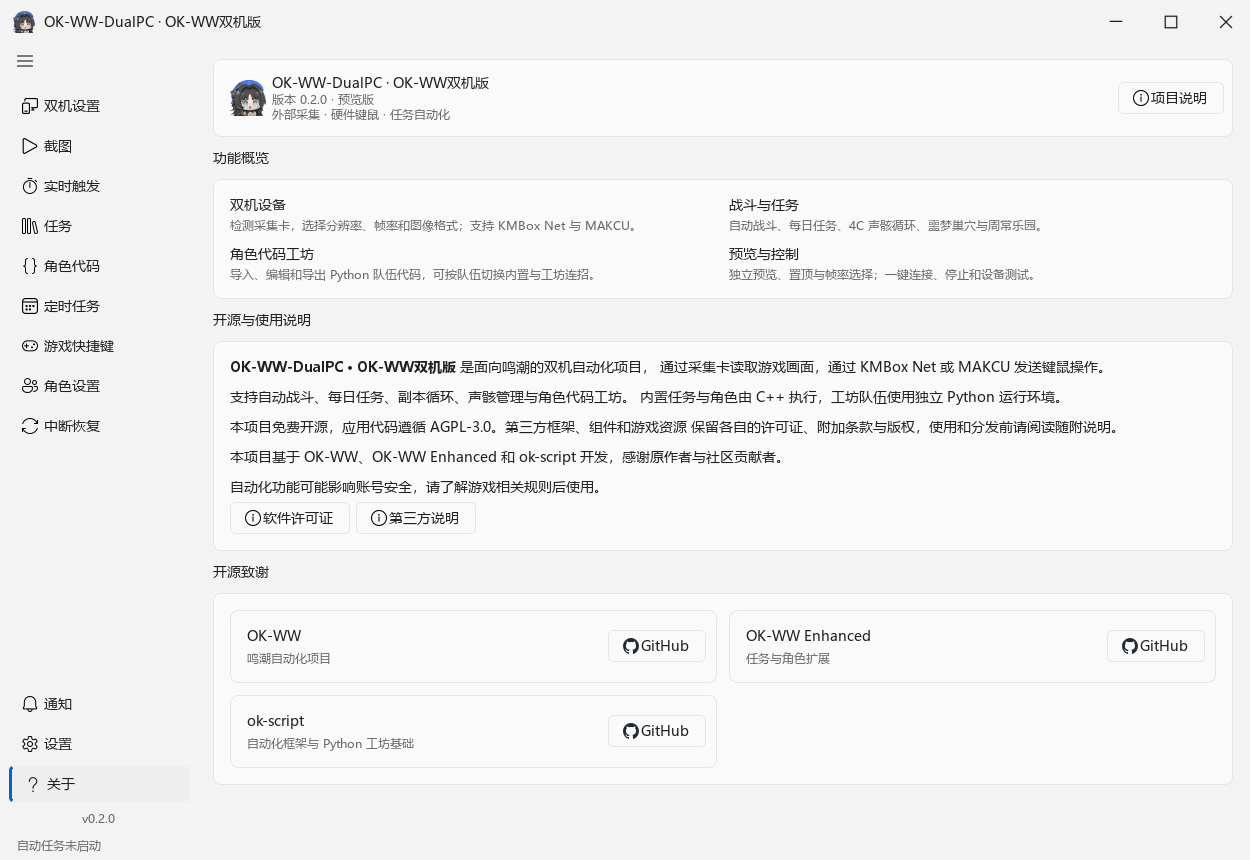
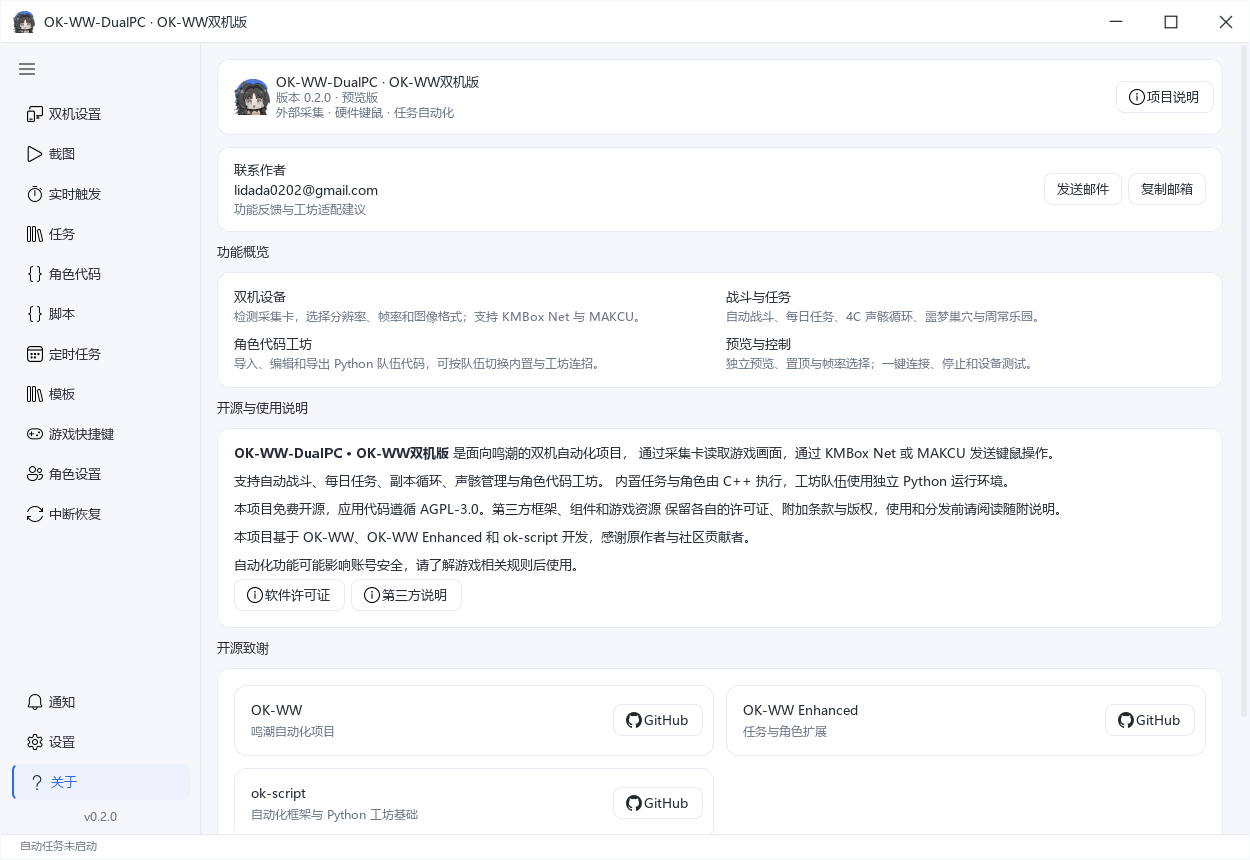
统一联系邮箱并更新反馈入口

diff --git a/native/tests/test_classic_ui.cpp b/native/tests/test_classic_ui.cpp
@@ -304,7 +304,7 @@ class ClassicUiTests final : public QObject {
         QTRY_VERIFY(card(*window, "AutoCombatTask"));
         navigate(*window, "about");
         auto email = window->findChild<QLabel *>("authorEmail");
-        QVERIFY(email && email->text() == "3485575458@qq.com");
+        QVERIFY(email && email->text() == "lidada0202@gmail.com");
         auto contact = window->findChild<QPushButton *>("contactAuthor");
         QVERIFY(contact);
         const QUrl url(contact->property("linkUrl").toString());
@@ -523,10 +523,10 @@ class ClassicUiTests final : public QObject {
             dialog->findChild<QPushButton *>("workshopCopyFeedback")->click();
             const auto copied = QApplication::clipboard()->text();
             verified = hiddenForKnown && shownForUnknown && recorder.count == 1 &&
-                recorder.opened.scheme() == "mailto" && recorder.opened.path() == "3485575458@qq.com" &&
+                recorder.opened.scheme() == "mailto" && recorder.opened.path() == "lidada0202@gmail.com" &&
                 query.queryItems().size() == 2 && body.contains("FutureCharacter") &&
                 body.contains("测试 & 方案") && body.contains("WorkshopAuthor") && body.contains("2.0") &&
-                copied.contains("3485575458@qq.com") && copied.contains(body);
+                copied.contains("lidada0202@gmail.com") && copied.contains(body);
             table->selectRow(0);
             verified &= !notice->isVisible();
             dialog->accept();

diff --git a/tools_release/prepare_binary.py b/tools_release/prepare_binary.py
@@ -158,7 +158,7 @@ def main() -> None:
         "- [源码构建](source/docs/development.md)\n\n"
         "配置保存在 `native-full-data/`，首次运行自动生成。"
         "更新前建议备份此目录。\n\n"
-        "反馈邮箱：[3485575458@qq.com](mailto:3485575458@qq.com)。"
+        "反馈邮箱：[lidada0202@gmail.com](mailto:lidada0202@gmail.com)。"
         "请附软件版本、设备型号、复现步骤和相关日志。\n", encoding="utf-8")
 
     files = write_manifest(stage, executable_hash)

diff --git a/native/src/app_info.hpp b/native/src/app_info.hpp
@@ -5,6 +5,6 @@ namespace okww::product {
 inline const QString name = QStringLiteral("OK-WW-DualPC");
 inline const QString title = QStringLiteral("OK-WW-DualPC · OK-WW双机版");
 inline const QString version = QStringLiteral("0.2.0");
-inline const QString supportEmail = QStringLiteral("3485575458@qq.com");
+inline const QString supportEmail = QStringLiteral("lidada0202@gmail.com");
 inline QString versionLabel() { return "版本 " + version + " · 预览版"; }
 } // namespace okww::product

diff --git a/setup.py b/setup.py
@@ -37,7 +37,7 @@ setuptools.setup(
     name="ok-ww-dualpc",
     version="0.2.0",
     author="xueyuannnn",
-    author_email="3485575458@qq.com",
+    author_email="lidada0202@gmail.com",
     description="Dual-PC automation for Wuthering Waves",
     url="https://github.com/xueyuannnn/OK-WW-DualPC",
     packages=setuptools.find_packages(),

diff --git a/README.md b/README.md
@@ -67,7 +67,7 @@ MAKCU 的键盘输出取决于固件和路由配置。暂不支持 FFmpeg 采集
 
 ## 问题反馈
 
-联系邮箱：[3485575458@qq.com](mailto:3485575458@qq.com)。软件「关于」页也可复制地址或打开邮件客户端。
+联系邮箱：[lidada0202@gmail.com](mailto:lidada0202@gmail.com)。软件「关于」页也可复制地址或打开邮件客户端。
 
 反馈时请附上软件版本、任务名称、采集卡与盒子型号、复现步骤和相关日志。工坊问题请同时说明队伍、方案作者及版本。发送前请检查并隐藏设备凭据和个人信息。
 

diff --git a/docs/release-notes.md b/docs/release-notes.md
@@ -44,4 +44,4 @@
 
 工坊中需要额外依赖、调用本机键鼠或使用未支持角色的代码可能需要适配。请只导入可信代码。不同设备和游戏版本仍需实际测试。
 
-反馈邮箱：[3485575458@qq.com](mailto:3485575458@qq.com)。请附软件版本、设备型号、复现步骤和相关日志。
+反馈邮箱：[lidada0202@gmail.com](mailto:lidada0202@gmail.com)。请附软件版本、设备型号、复现步骤和相关日志。

diff --git a/CHANGELOG.md b/CHANGELOG.md
@@ -2,6 +2,10 @@
 
 ## 0.2.0 预览版
 
+### beta.2
+
+- 联系邮箱统一更新为 lidada0202@gmail.com，覆盖关于页、工坊反馈、包内说明与项目文档。
+
 ### 双机与界面
 
 - 切换内置与工坊代码后清除旧队伍检测状态，下一次启动重新识别；短动作条的无目标图案不再触发持续战斗，Python 与 C++ 同步修正。
